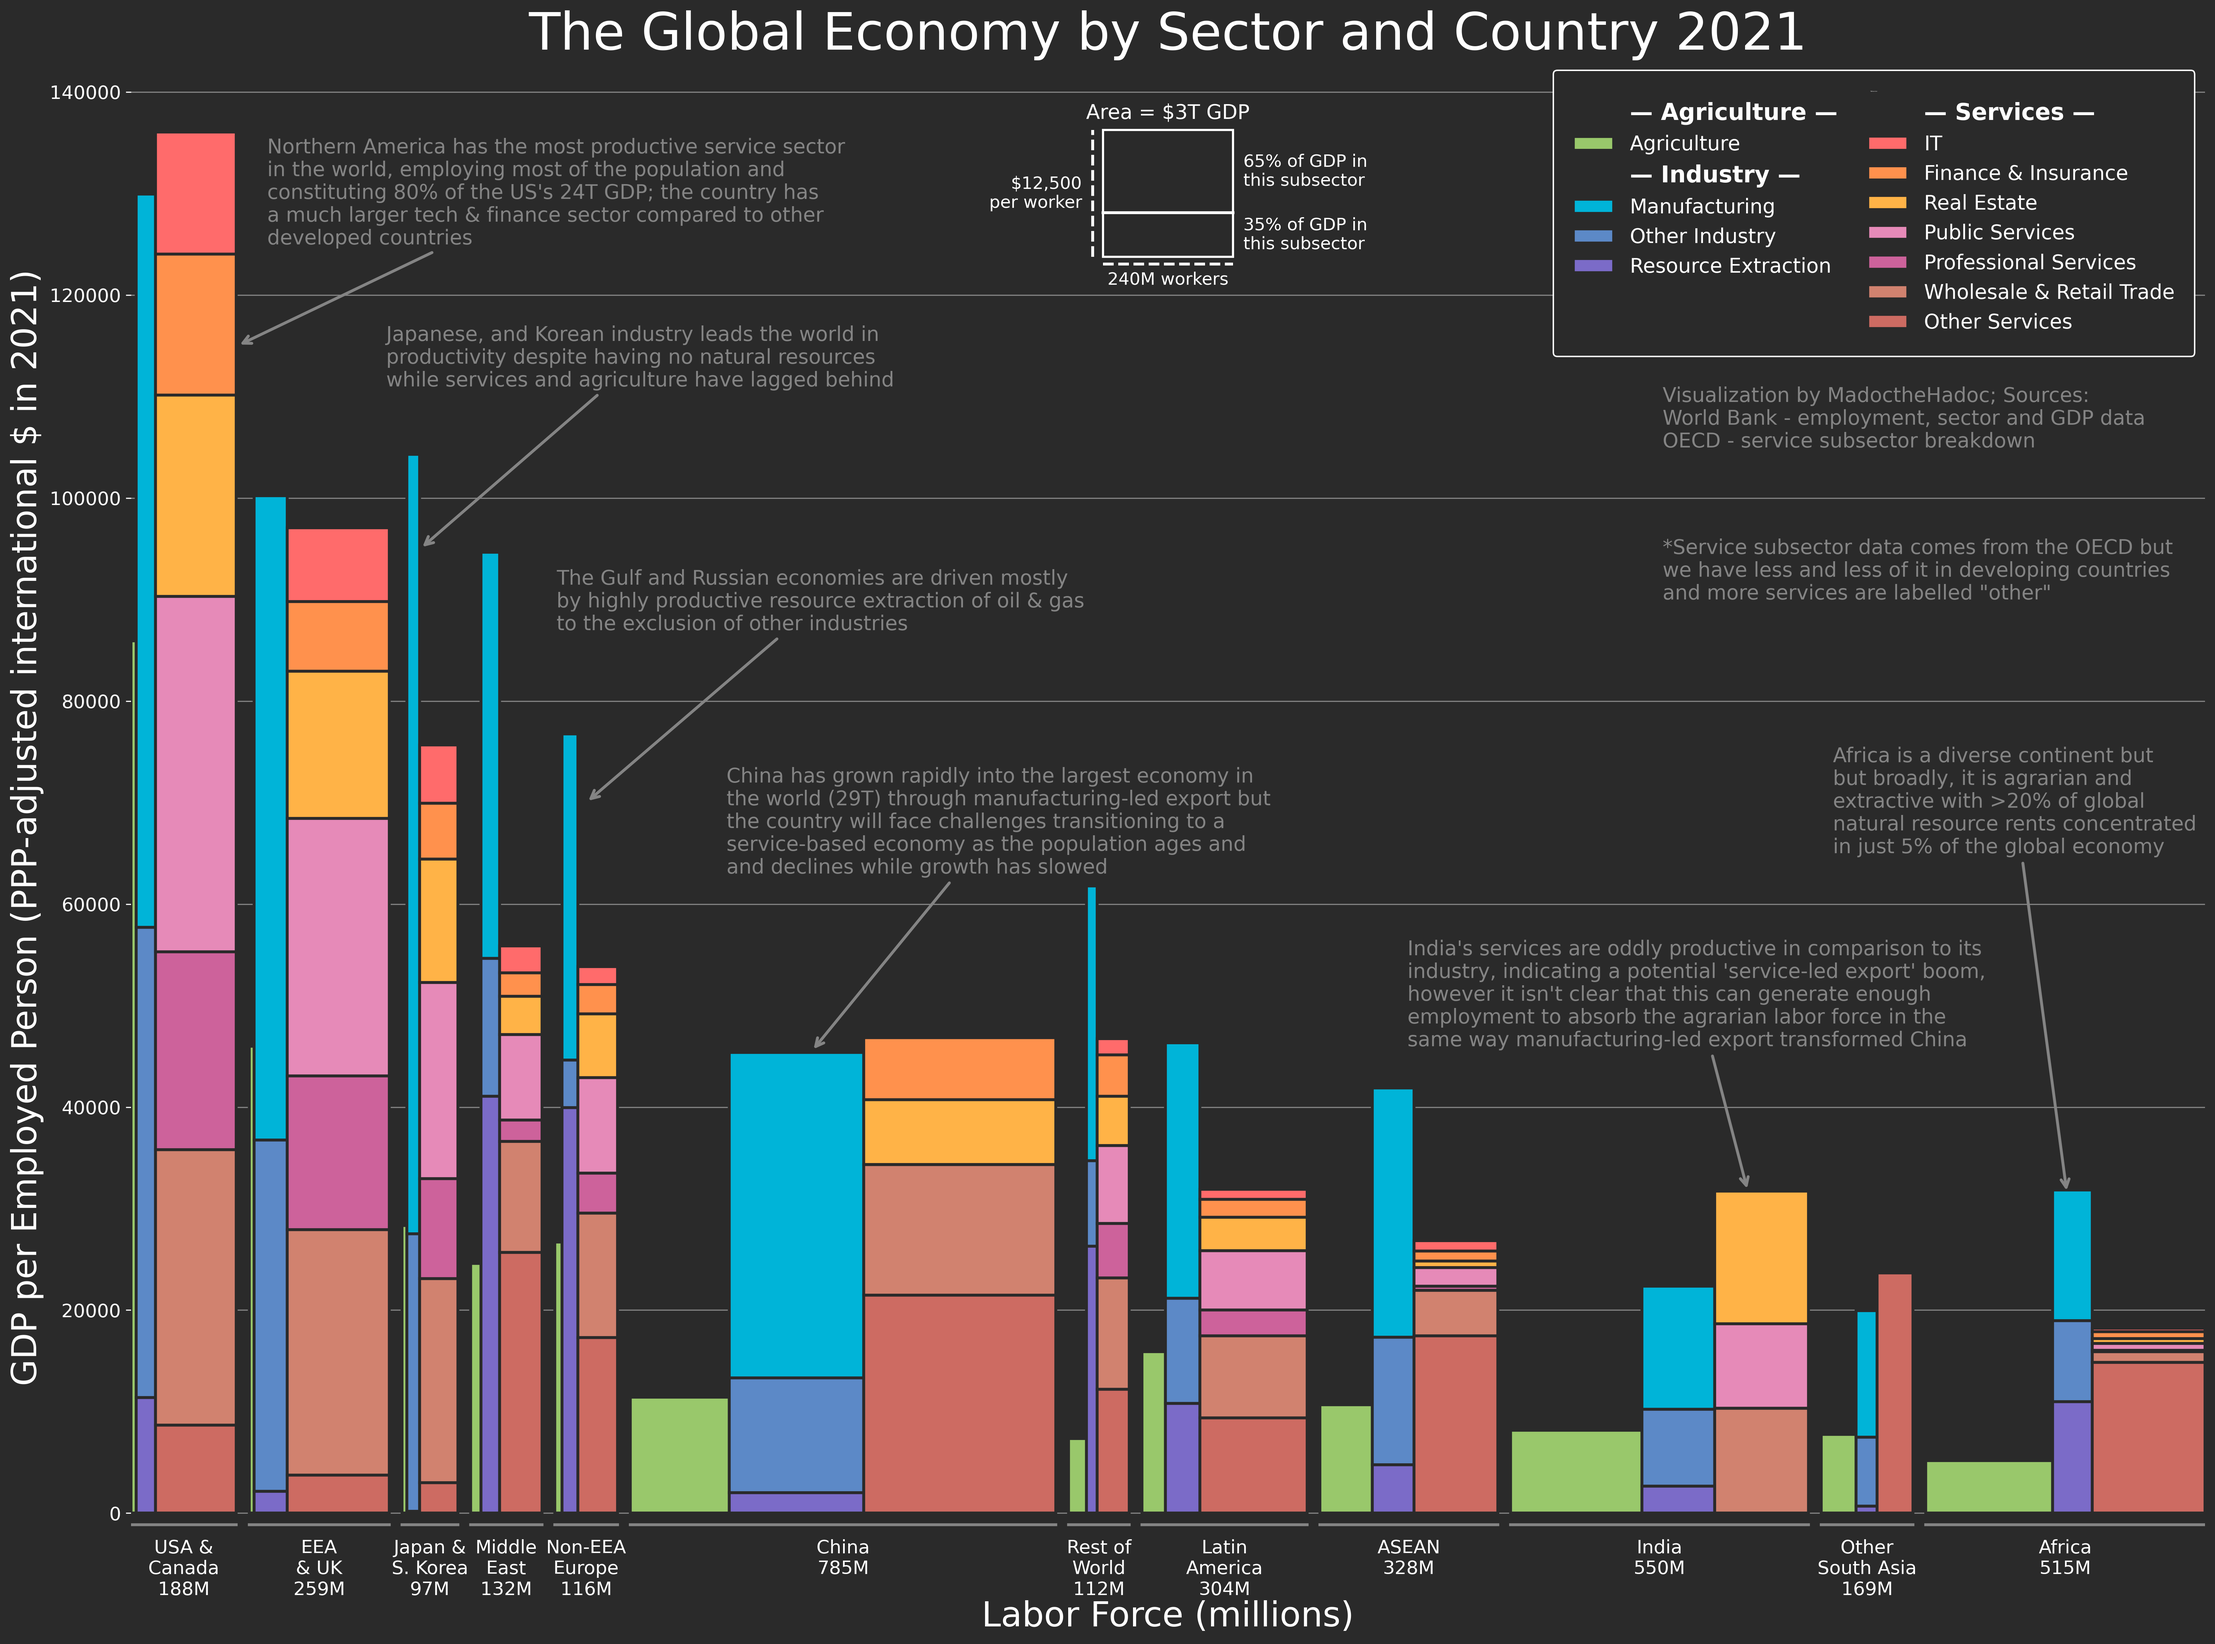
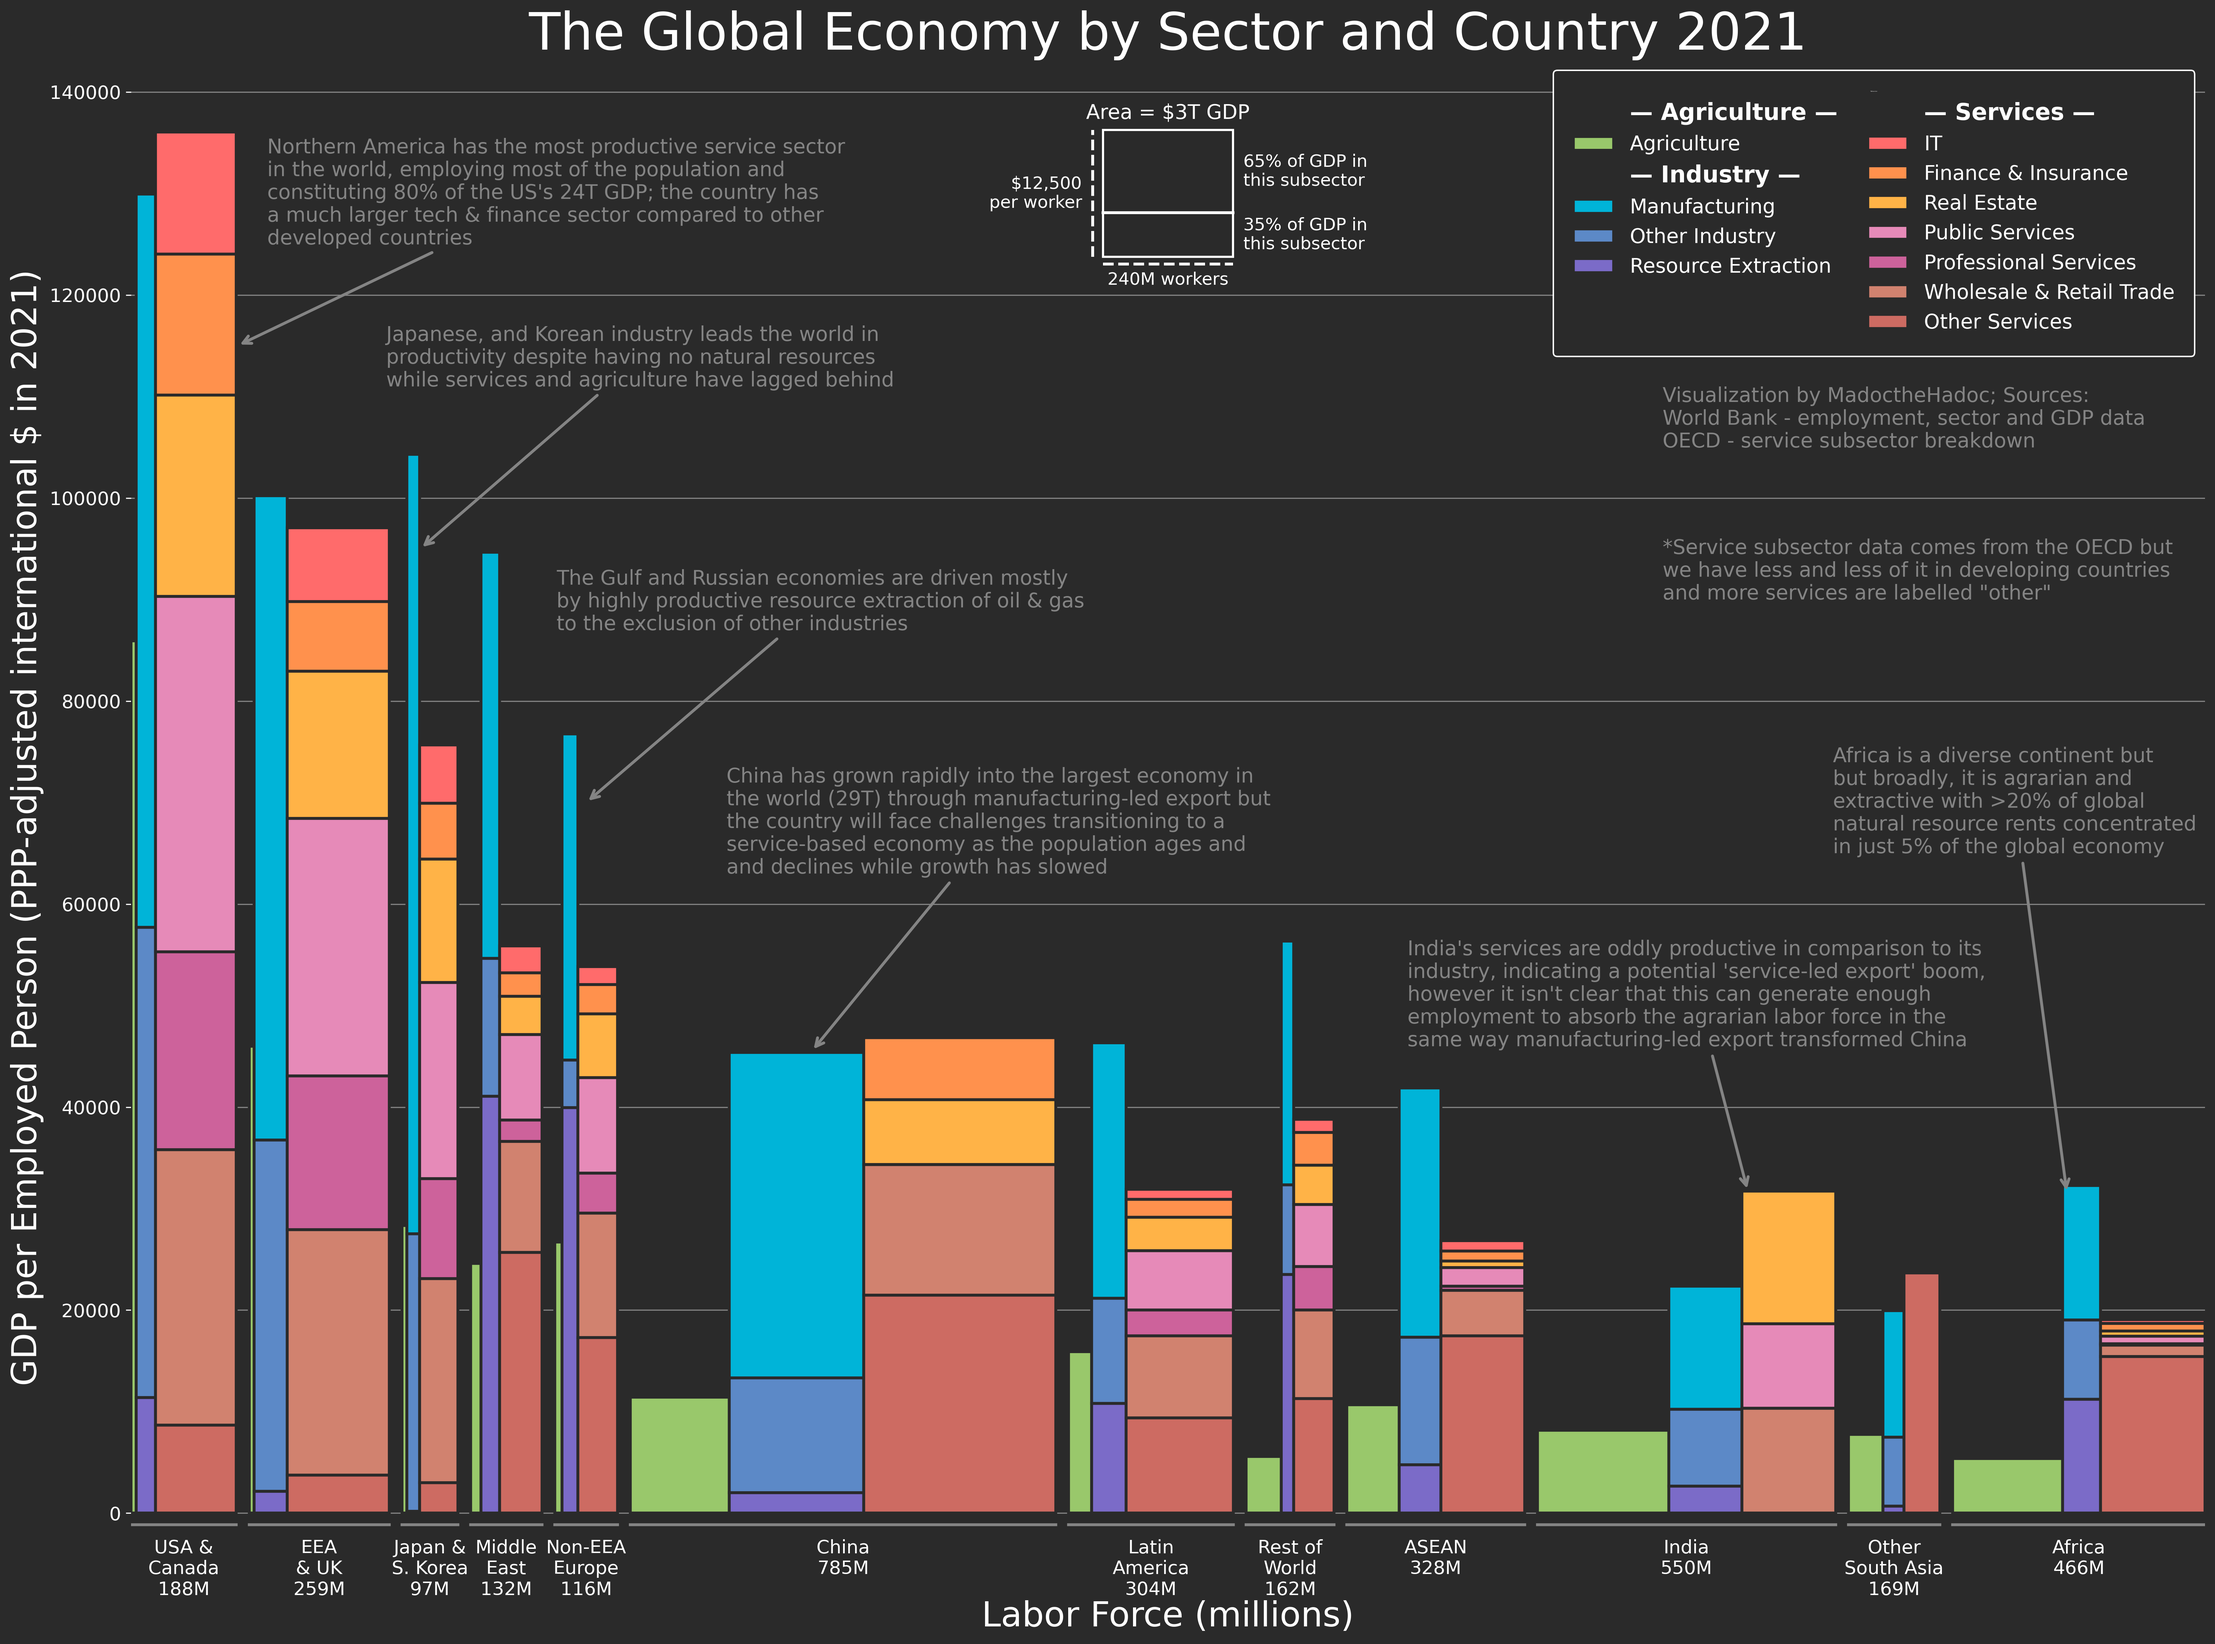
EDS time comparison

Changed region(s): [[0.467, 0.5624, 0.9963, 0.9685], [0.934, 0.9373, 0.9651, 0.9685]]

diff --git a/scripts/EDSTimeComparison.py b/scripts/EDSTimeComparison.py
@@ -1,0 +1,135 @@
+import matplotlib.pyplot as plt
+import numpy as np
+
+plt.rcParams["font.family"] = "Times New Roman"
+
+
+def plot_grouped_score_bars_vertical(data, colors):
+    # Extract labels and values
+    categories = [row[0] for row in data]
+    values = [row[1:-2] for row in data]  # Exclude the overall score and the kept_techniques flag
+    kept_techniques = [row[-1] for row in data]  # Extract the kept_techniques flag
+
+    # Group data into Memory, Eval Time (synth + real), and Other
+    grouped_values = []
+    for row in values:
+        syn_eval_time = row[1]  # Synth
+        real_eval_time = row[2]  # Real
+        other = row[0] / 500 + row[3] / 1000 + 20 * row[4]  # Prep/500 + Load/1000 + 20*Peak Mem
+        grouped_values.append([real_eval_time, syn_eval_time, other])
+
+    # Labels for each group
+    group_labels = ["Real\nEvaluation\nTime", "Syn Eval", "Other"]
+
+    # Figure setup
+    fig, ax = plt.subplots(figsize=(12, 12), facecolor='white')
+
+    # Plot stacked bars (vertically)
+    x_pos = np.arange(len(categories))
+    bottom = np.zeros(len(categories))
+    for i in range(len(grouped_values[0])):
+        bars = ax.bar(
+            x_pos,
+            [row[i] for row in grouped_values],
+            bottom=bottom,
+            color= [(colors["DarkPastelRed"] if i==2 else colors["SlateGrey"])  if not kept_techniques[j] else (colors["PastelRed"] if i==2 else colors["LightGrey"]) for j in range(len(categories))],
+            edgecolor='white',
+            linewidth=0.5,
+            width=0.8
+        )
+
+        # Add labels on the first bar only
+        for j, bar in enumerate(bars):
+            if j == 0:
+                height = [row[i] for row in grouped_values][j]
+                if height > 0:
+                    ax.text(
+                        bar.get_x() + bar.get_width() / 2,
+                        bottom[j] + height / 2,
+                        group_labels[i],
+                        ha='center',
+                        va='center',
+                        color='white',
+                        fontsize=12,
+                        fontweight='bold'
+                    )
+
+        bottom += np.array([row[i] for row in grouped_values])
+
+
+    # X labels and ticks (categories)
+    ax.set_xticks(x_pos)
+    ax.set_xticklabels(categories, fontsize=10, color=colors["DarkPastelRed"])
+
+    # Y labels and ticks (score)
+    ax.tick_params(axis='y', colors=colors["SlateGrey"], labelsize=17, width=2)
+    ax.tick_params(axis='x', colors=colors["SlateGrey"], labelsize=17, width=2)
+
+    # Axis styling
+    for spine_name, spine in ax.spines.items():
+        if spine_name == 'bottom':
+            spine.set_linewidth(2)
+            spine.set_color(colors["SlateGrey"])
+        else:
+            spine.set_visible(False)
+
+    # Gridlines
+    ax.yaxis.grid(True, linestyle='--', alpha=1.0, color=colors["SlateGrey"], linewidth=1.5)
+    ax.set_axisbelow(True)
+
+    # Labels and title
+    ax.set_ylabel("Score Contribution", fontsize=24, color=colors["DarkPastelRed"], labelpad=0)
+    ax.set_title("Score History by Technique", fontsize=30, color=colors["DarkPastelRed"], pad=0, fontweight='bold')
+
+    plt.tight_layout()
+    plt.savefig("visualizations/PerformanceComparison.png", dpi=300, bbox_inches="tight", facecolor='white')
+
+
+
+# Custom colors (as provided)
+colors = {
+    "SlateGrey": "#2E2E2E",
+    "LightGrey": "#7D7D7D",
+    "PastelRed": "#8F0D0D",
+    "DarkPastelRed": "#450808"
+}
+
+data = [ # Last variable indicates whether the technique made it to the final implementation
+    # Basic implementation
+    # ["Basic\nImplementation", 697.19, 89.41, 17643.63, 3877.55, 7.76, 17893.51, True],
+    ["Basic\nImplementation  ", 0, 546.77, 13984.72, 3842.32, 24.07, 15016.73, True],
+    
+    # Bushy
+    ["Bushy\nEval", 730.08, 87.79, 16785.89, 4025.89, 9.33, 17065.77, False],
+        
+    # CSR/CSC
+    ["CSR/\nCSC", 695.83, 520.24, 12266.92, 3920.49, 25.08, 13294.07, True],
+
+    # Waveguide Original
+    ["Waveguide\nOriginal", 706.71, 251.29, 11958.52, 4134.58, 25.08, 12716.96, False],
+
+    # ZigZag + In-Place Join + Semi-Transitive Closure
+    ["ZigZag\n+ Others", 739.38, 423.17, 9050.19, 3902.90, 25.67, 9992.14, False],
+
+    # Union Cardinality Ordering
+    # ["Union Card\nOrdering", 785.73, 423.88, 9369.03, 3993.75, 25.67, 10311.87, False],
+
+    # PSO and POS
+    ["PSO/\nPOS", 709.13, 395.06, 8494.53, 4733.06, 28.53, 9466.34, True],
+
+    # Parallelism
+    ["Multi-\nThreading", 730.89, 375.19, 8465.62, 4787.30, 27.79, 9402.80, False],
+
+    # Waveguide
+    ["Waveguide", 707.53, 52.87, 1531.17, 4750.70, 5.21, 1694.41, True],
+
+    # Smart Memory Allocation
+    ["Smart\nAllocation", 715.43, 31.99463, 1071.97, 4779.72, 5.21, 1214.38, True],
+
+    # Final Touches
+    ["Final\nTouches", 711.29, 31.08, 1026.21, 4771.87, 5.21, 1167.69, True]
+]
+
+
+# Call the function
+plot_grouped_score_bars_vertical(data, colors)

diff --git a/scripts/SectoralGDPWorldBankData.py b/scripts/SectoralGDPWorldBankData.py
@@ -116,7 +116,7 @@ REGIONS = [
         'Korea, Rep.', 'Japan'
     ]},
     {'name': 'Africa', 'countries': [
-        'Nigeria', 'South Africa', 'Ethiopia', 'Kenya', 'Tanzania', 'Uganda', 'Ghana', 'Angola',
+        'Nigeria', 'South Africa', 'Kenya', 'Tanzania', 'Uganda', 'Ghana', 'Angola',
         'Mozambique', "Cote d'Ivoire", 'Cameroon', 'Niger', 'Burkina Faso', 'Mali', 'Malawi',
         'Zambia', 'Senegal', 'Zimbabwe', 'Rwanda', 'Benin', 'Chad', 'South Sudan', 'Togo',
         'Sierra Leone', 'Liberia', 'Botswana', 'Namibia', 'Somalia', 'Congo, Dem. Rep.', 'Congo, Rep.',
